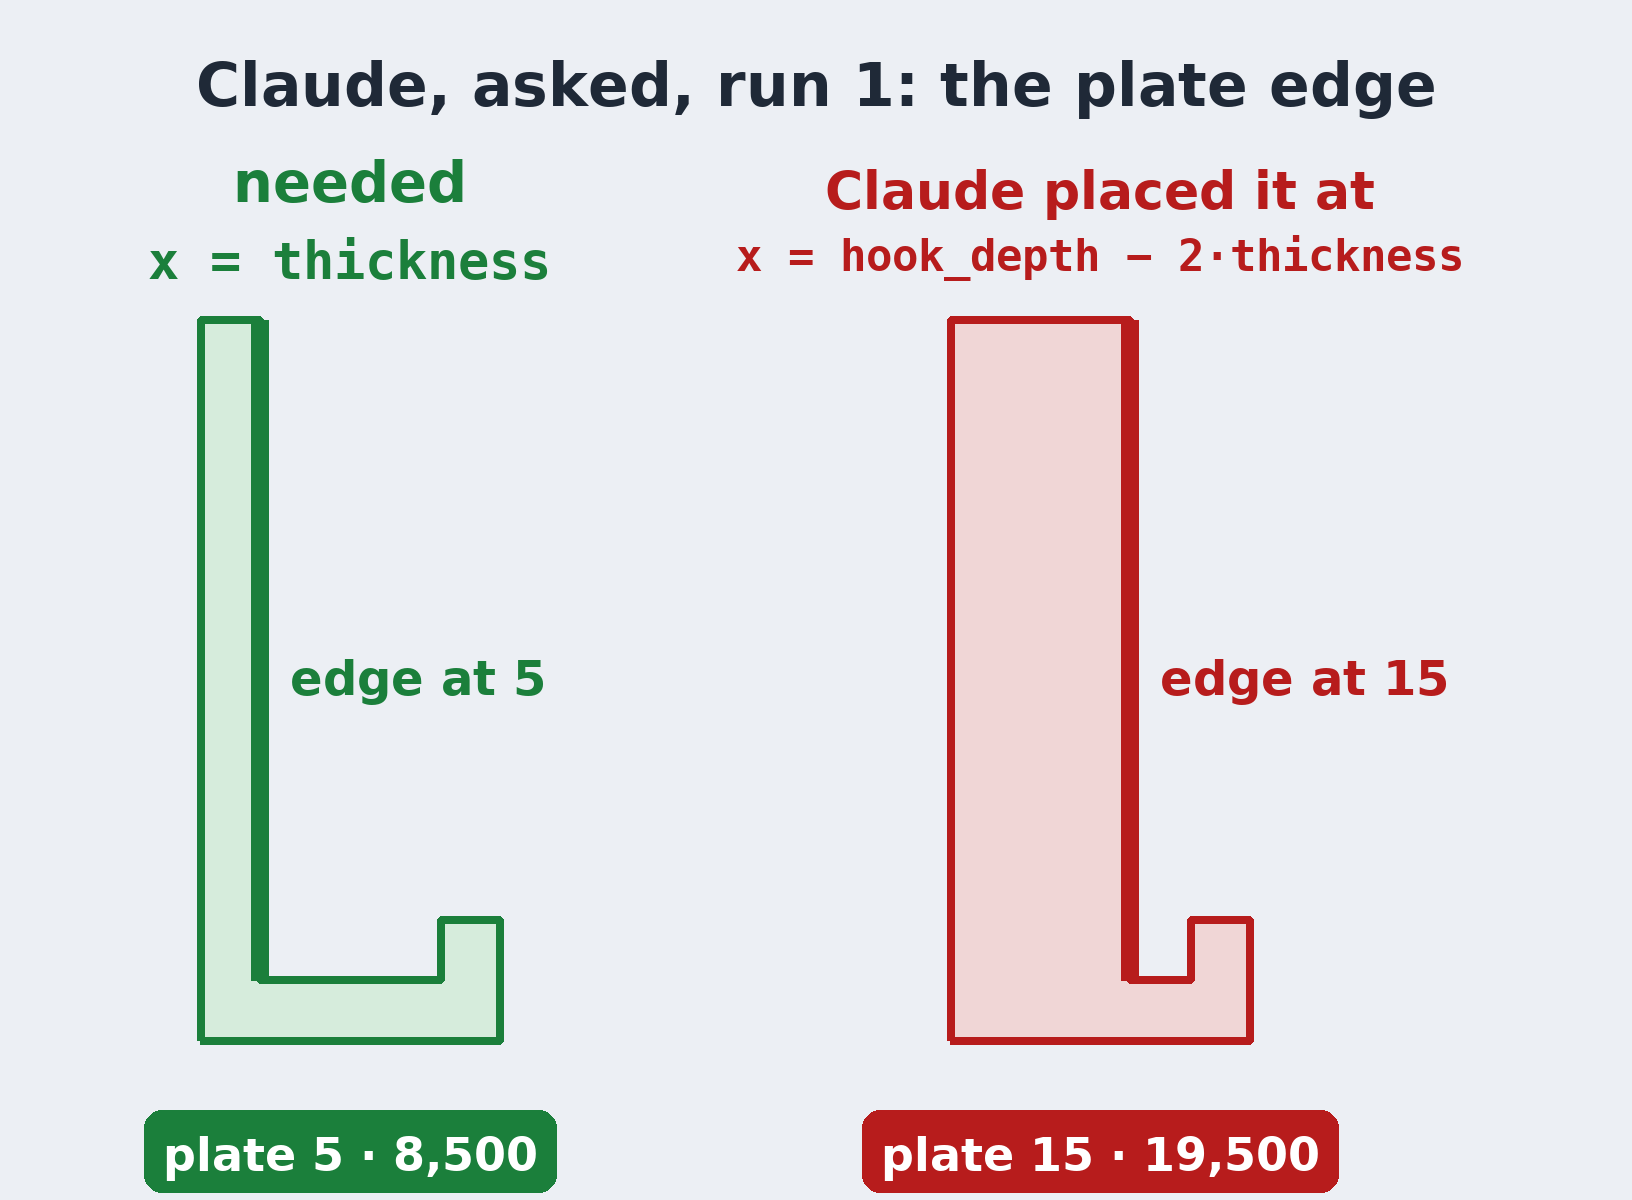
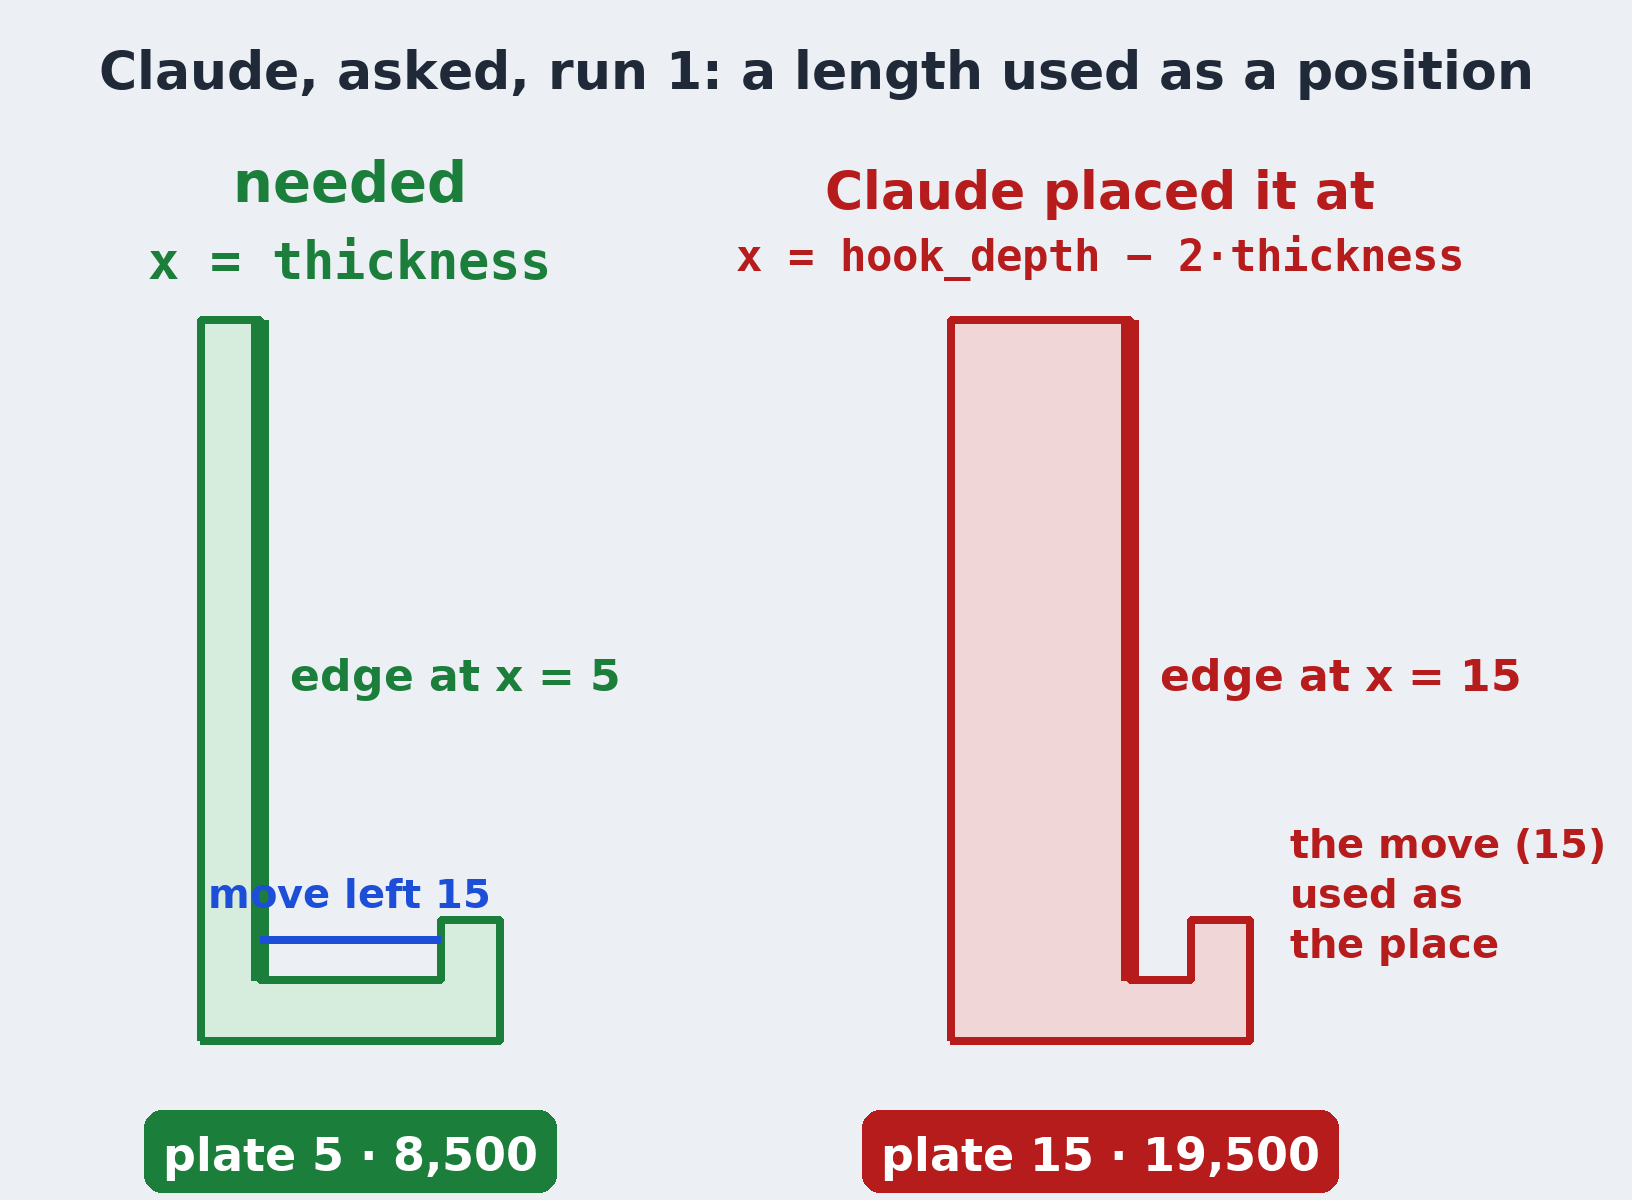
Lesson 3 cards after watch-through cut 2: d5 label clear, the slip as a length used as a position, the catch formula in names, 35 = 40 - 5, recipe steps from 1

diff --git a/video/draw3.py b/video/draw3.py
@@ -63,9 +63,9 @@ def card_recipe():
     d.line((360, 410, 1300, 410), fill=GREY, width=3)
     text(d, (360, 330 + 120), 'milk   =  300 ml', 64, path=M)
     text(d, (320, 600), 'Steps', 60, BLUE)
-    text(d, (360, 690), '2. add the flour', 60, path=R)
-    text(d, (360, 790), '3. stir in the milk', 60, path=R)
-    text(d, (360, 890), '4. add the rest of the flour', 60, path=R)
+    text(d, (360, 690), '1. add the flour', 60, path=R)
+    text(d, (360, 790), '2. stir in the milk', 60, path=R)
+    text(d, (360, 890), '3. add the rest of the flour', 60, path=R)
     save(im, 'card-recipe-a.png')
     d.rectangle((560, 290, 1000, 380), fill=PAPER)
     text(d, (360, 300), 'flour  =  400 g', 64, RED, path=M)
@@ -88,8 +88,8 @@ def card_catch():
     d.line((p[4], p[5]), fill=BLUE, width=18)
     text(d, ((p[4][0] + p[5][0]) / 2, p[4][1] - 100), '15', 72, BLUE, anchor='ma')
     save(im, 'card-catch-b.png')
-    chip(d, (1180, 360), '15 = hook_depth − 5 − 5', 56, anchor='m', bg=BLUE)
-    chip(d, (1180, 470), 'a formula of the names', 52, anchor='m', bg=GREEN)
+    chip(d, (1060, 360), '15 = hook_depth − 2 × thickness', 46, anchor='m', bg=BLUE)
+    chip(d, (1060, 470), 'a formula of the names', 50, anchor='m', bg=GREEN)
     save(im, 'card-catch.png')
 
 
@@ -99,7 +99,7 @@ def card_expected():
     s = 13
     ox, oy = 90, 1100
     draw_j(d, j_pts(40), ox, oy, s)
-    rows = [('25 → 40', '+15 mm', INK), ('plate 5 x 60', '300', INK), ('arm 35 x 5', '175', INK), ('lip 5 x 5', '25', INK),
+    rows = [('25 → 40', '+15 mm', INK), ('plate 5 x 60', '300', INK), ('arm (40 − 5) x 5', '175', INK), ('lip 5 x 5', '25', INK),
             ('500 mm² x 20', '10,000 mm³', GREEN)]
     for i, (a, b, c) in enumerate(rows):
         y = 230 + i * 150
@@ -126,11 +126,13 @@ def card_plainwhy():
     chip(d, (1150, 300), '4 upright lines', 52, anchor='m', bg=AMBER)
     for a, b, lab in ((p[3], p[2], '5'), (p[5], p[4], 'd5 = 15'), ((ox, p[6][1]), p[6], '5')):
         d.line((a, b), fill=BLUE, width=14)
-        dy = 150 if lab.startswith('d5') else 80
-        text(d, ((a[0] + b[0]) / 2 + (40 if lab == '5' and a[0] == ox else 0), a[1] - dy), lab, 60, BLUE, anchor='ma')
+        dy = 80
+        dx = -60 if lab.startswith('d5') else (40 if lab == '5' and a[0] == ox else 0)
+        text(d, ((a[0] + b[0]) / 2 + dx, a[1] - dy), lab, 54 if lab.startswith('d5') else 60, BLUE, anchor='ma')
     chip(d, (1150, 420), '5 + 15 + 5 = 25, not 40', 58, anchor='m', bg=RED)
     save(im, 'card-plainwhy-a.png')
     chip(d, (1150, 560), 'fix: d5 = d1 − 10', 58, anchor='m', bg=GREEN)
+    text(d, (1150, 650), '(10 = two thicknesses of 5)', 44, GREEN, anchor='ma')
     save(im, 'card-plainwhy.png')
 
 
@@ -174,18 +176,22 @@ def card_recap():
 def card_bwrong():
     """Asked run 1: the plate's inner edge where it was placed against where it belongs (its logged sketch.line points)."""
     im, d = canvas()
-    text(d, (W / 2, 50), 'Claude, asked, run 1: the plate edge', 60, anchor='ma')
+    text(d, (W / 2, 40), 'Claude, asked, run 1: a length used as a position', 52, anchor='ma')
     s = 12
     pg = draw_j(d, j_pts(25, 5), 200, 1040, s, fill=(214, 236, 220), outline=GREEN)
     d.line((pg[5], pg[6]), fill=GREEN, width=18)
-    text(d, (pg[5][0] + 30, (pg[5][1] + pg[6][1]) / 2), 'edge at 5', 48, GREEN)
+    text(d, (pg[5][0] + 30, (pg[5][1] + pg[6][1]) / 2), 'edge at x = 5', 44, GREEN)
+    d.line((pg[4][0], pg[4][1] - 40, pg[5][0], pg[5][1] - 40), fill=BLUE, width=8)
+    text(d, ((pg[4][0] + pg[5][0]) / 2, pg[4][1] - 110), 'move left 15', 40, BLUE, anchor='ma')
     text(d, (350, 150), 'needed', 56, GREEN, anchor='ma')
     text(d, (350, 230), 'x = thickness', 52, GREEN, path=M, anchor='ma')
     chip(d, (350, 1110), 'plate 5 · 8,500', 46, anchor='m', bg=GREEN)
     save(im, 'card-bwrong-1.png')
     pr = draw_j(d, j_pts(25, 15), 950, 1040, s, fill=(240, 214, 214), outline=RED)
     d.line((pr[5], pr[6]), fill=RED, width=18)
-    text(d, (pr[5][0] + 30, (pr[5][1] + pr[6][1]) / 2), 'edge at 15', 48, RED)
+    text(d, (pr[5][0] + 30, (pr[5][1] + pr[6][1]) / 2), 'edge at x = 15', 44, RED)
+    for k, ln in enumerate(('the move (15)', 'used as', 'the place')):
+        text(d, (1290, 820 + k * 50), ln, 40, RED)
     text(d, (1100, 160), 'Claude placed it at', 52, RED, anchor='ma')
     text(d, (1100, 230), 'x = hook_depth − 2·thickness', 44, RED, path=M, anchor='ma')
     chip(d, (1100, 1110), 'plate 15 · 19,500', 46, anchor='m', bg=RED)
@@ -217,7 +223,7 @@ def hook(w, h, vertical=False):
 
 def short_assets():
     im, d = canvas(1000, 1000)
-    text(d, (500, 40), 'Plain numbers: d1 = 40', 54, anchor='ma')
+    text(d, (500, 40), 'Plain numbers: bottom 25 → 40', 50, anchor='ma')
     s = 11
     ox, oy = 160, 900
     p = draw_j(d, j_pts(), ox, oy, s)
@@ -227,6 +233,12 @@ def short_assets():
         d.line((a, b), fill=BLUE, width=12)
         text(d, ((a[0] + b[0]) / 2 + (36 if lab == '5' and a[0] == ox else 0), a[1] - 62), lab, 48, BLUE, anchor='ma')
     chip(d, (640, 300), '5 + 15 + 5 = 25', 50, anchor='m', bg=RED)
+    # the gap: the lip ends at 25, the bottom at 40
+    gx0, gx1, gy = ox + 25 * s, ox + 40 * s, oy - 10 * s
+    for x in range(int(gx0), int(gx1), 22):
+        d.line((x, gy, x + 12, gy), fill=RED, width=6)
+    d.line((gx1, oy, gx1, gy), fill=RED, width=6)
+    chip(d, ((gx0 + gx1) / 2 + 40, gy - 130), "can't meet", 44, anchor='m', bg=RED)
     save(im, 'sc3s-why.png')
     im = Image.new('RGB', (1000, 1000), BG)
     d = ImageDraw.Draw(im)
